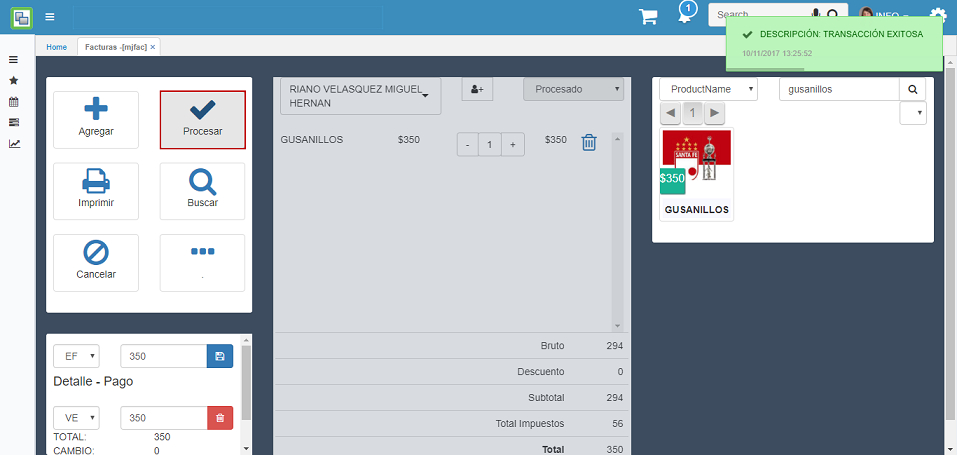
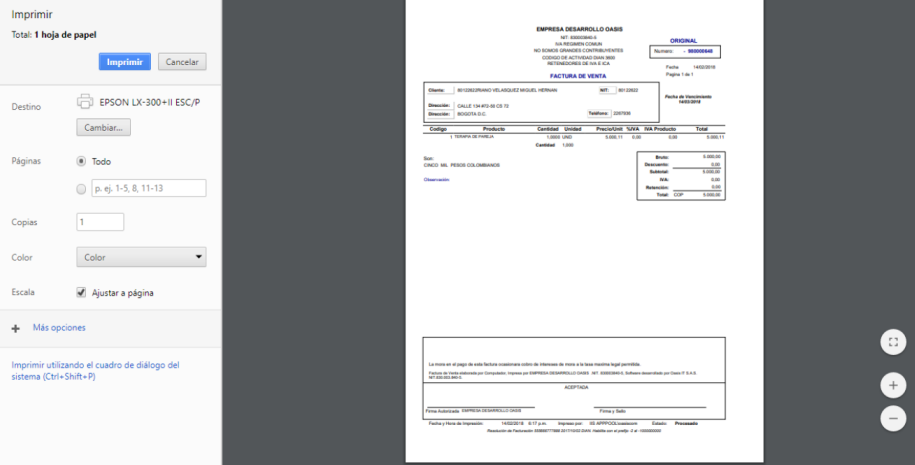
mjfac

diff --git a/Operacion/scm/pos/jcajero/mjfac.md b/Operacion/scm/pos/jcajero/mjfac.md
@@ -68,9 +68,13 @@ Consultamos en la aplicación [**BTER - Terceros**](http://docs.oasiscom.com/Ope
 
 ![](mjfac14.png)
 
-Finalmente, seleccionados los productos a comprar, las cantidades, la forma de pago y verificada la condición de pago, debemos procesar la factura.  
+Finalmente, seleccionados los productos a comprar, las cantidades, la forma de pago y verificada la condición de pago, debemos procesar la factura. Al dar click en el botón _Procesar_ el sistema arrojará inmediatamente una ventana para imprimir la factura.  
 
 ![](mjfac15.png)
+
+Al cerrar la anterior ventana, se visualizará la factura de la siguiente forma:  
+
+![](mjfac28.png)
 
 Esta factura la podremos ver en la aplicación **JFAC - Facturas** al consultar por la fecha en que se realizó.  
 
